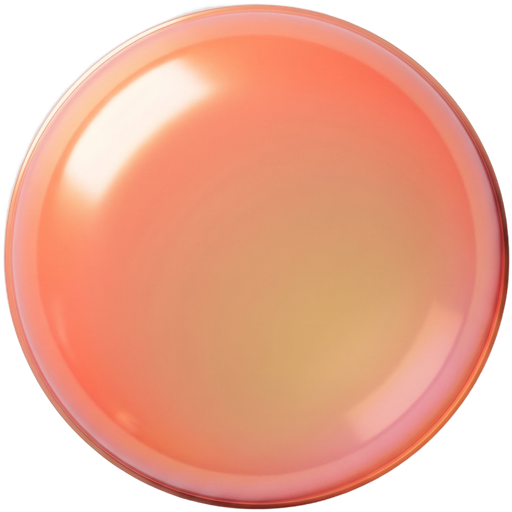
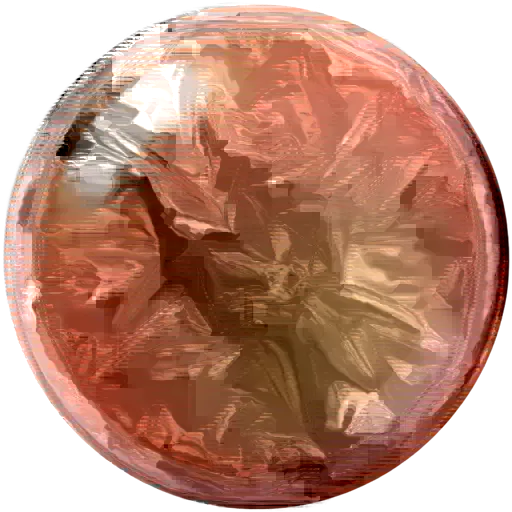
feat(pop-zen): crinkled popped skins + multi-colour Pastel
- Popped skin bubbles now look deflated/crinkled like the classic pop (the real
  popped bubble's wrinkle shading multiplied onto the solid skin colour), instead
  of just shrinking — while keeping each skin's solid colour.
- Pastel is now a MULTI-COLOUR skin: 6 pastel hues (pink, peach, yellow, mint,
  teal, blue) spread across the bubbles in a phase, matching its rainbow shop art.
  Sprite lookup now supports per-skin variant arrays, picked per-bubble by id.
Verified in-game: pastel field shows a mix of colours; born-popped bubbles read
as crinkled deflated in their colour.

diff --git a/apps/pop-zen/src/lib/skins.ts b/apps/pop-zen/src/lib/skins.ts
@@ -41,23 +41,44 @@ import nightFull from "../assets/bubbles/skins/skin-night-full.webp";
 import nightPop from "../assets/bubbles/skins/skin-night-popped.webp";
 import goldFull from "../assets/bubbles/skins/skin-gold-full.webp";
 import goldPop from "../assets/bubbles/skins/skin-gold-popped.webp";
-import zpFull from "../assets/bubbles/skins/zen-pastel-full.webp";
-import zpPop from "../assets/bubbles/skins/zen-pastel-popped.webp";
 import zmFull from "../assets/bubbles/skins/zen-mint-full.webp";
 import zmPop from "../assets/bubbles/skins/zen-mint-popped.webp";
 import zlFull from "../assets/bubbles/skins/zen-lavender-full.webp";
 import zlPop from "../assets/bubbles/skins/zen-lavender-popped.webp";
+// Pastel is a MULTI-COLOUR skin (matches its rainbow shop art): a set of pastel
+// hues, spread across the bubbles in a phase (picked per-bubble by id).
+import zp0f from "../assets/bubbles/skins/zen-pastel-0-full.webp";
+import zp0p from "../assets/bubbles/skins/zen-pastel-0-popped.webp";
+import zp1f from "../assets/bubbles/skins/zen-pastel-1-full.webp";
+import zp1p from "../assets/bubbles/skins/zen-pastel-1-popped.webp";
+import zp2f from "../assets/bubbles/skins/zen-pastel-2-full.webp";
+import zp2p from "../assets/bubbles/skins/zen-pastel-2-popped.webp";
+import zp3f from "../assets/bubbles/skins/zen-pastel-3-full.webp";
+import zp3p from "../assets/bubbles/skins/zen-pastel-3-popped.webp";
+import zp4f from "../assets/bubbles/skins/zen-pastel-4-full.webp";
+import zp4p from "../assets/bubbles/skins/zen-pastel-4-popped.webp";
+import zp5f from "../assets/bubbles/skins/zen-pastel-5-full.webp";
+import zp5p from "../assets/bubbles/skins/zen-pastel-5-popped.webp";
 
 export type BubbleSprite = { full: string; popped: string };
-const BUBBLE_SPRITES: Record<string, BubbleSprite> = {
-  "skin-neon": { full: neonFull, popped: neonPop },
-  "skin-ocean": { full: oceanFull, popped: oceanPop },
-  "skin-sunset": { full: sunsetFull, popped: sunsetPop },
-  "skin-night": { full: nightFull, popped: nightPop },
-  "skin-gold": { full: goldFull, popped: goldPop },
-  "zen-pastel": { full: zpFull, popped: zpPop },
-  "zen-mint": { full: zmFull, popped: zmPop },
-  "zen-lavender": { full: zlFull, popped: zlPop },
+// Each skin maps to one OR MORE bubble sprites. Single-sprite skins have a
+// one-element array; multi-colour skins (Pastel) list every variant.
+const BUBBLE_SPRITES: Record<string, BubbleSprite[]> = {
+  "skin-neon": [{ full: neonFull, popped: neonPop }],
+  "skin-ocean": [{ full: oceanFull, popped: oceanPop }],
+  "skin-sunset": [{ full: sunsetFull, popped: sunsetPop }],
+  "skin-night": [{ full: nightFull, popped: nightPop }],
+  "skin-gold": [{ full: goldFull, popped: goldPop }],
+  "zen-mint": [{ full: zmFull, popped: zmPop }],
+  "zen-lavender": [{ full: zlFull, popped: zlPop }],
+  "zen-pastel": [
+    { full: zp0f, popped: zp0p },
+    { full: zp1f, popped: zp1p },
+    { full: zp2f, popped: zp2p },
+    { full: zp3f, popped: zp3p },
+    { full: zp4f, popped: zp4p },
+    { full: zp5f, popped: zp5p },
+  ],
 };
 
 export type Rarity = "starter" | "common" | "uncommon" | "rare" | "premium";
@@ -238,9 +259,13 @@ export function equippedBubbleTint(): string | undefined {
 }
 
 /**
- * The equipped skin's real in-game bubble sprite pair (full + popped). Undefined
- * for Classic → the default bubble is used.
+ * The equipped skin's bubble sprite for a given bubble `seed` (its id). Single-
+ * colour skins always return their one sprite; multi-colour skins (Pastel) spread
+ * their variants across the field by seed so a phase shows a mix. Undefined for
+ * Classic → the default bubble is used.
  */
-export function equippedBubbleSprite(): BubbleSprite | undefined {
-  return BUBBLE_SPRITES[load().skins.equippedSkin];
+export function equippedBubbleSprite(seed = 0): BubbleSprite | undefined {
+  const arr = BUBBLE_SPRITES[load().skins.equippedSkin];
+  if (!arr || arr.length === 0) return undefined;
+  return arr[((seed % arr.length) + arr.length) % arr.length];
 }

diff --git a/apps/pop-zen/src/components/Bubble.tsx b/apps/pop-zen/src/components/Bubble.tsx
@@ -108,7 +108,7 @@ export const Bubble = memo(function Bubble({
 
   // Equipped skin's own bubble art (bespoke per-skin sprite). Specials keep their
   // own look, so only plain bubbles get the skin sprite; Classic → default bubble.
-  const sprite = special === "normal" ? equippedBubbleSprite() : undefined;
+  const sprite = special === "normal" ? equippedBubbleSprite(id) : undefined;
   const fullSrc = sprite ? sprite.full : bubbleFull;
   const poppedSrc = sprite ? sprite.popped : bubblePopped;
   const look = special !== "normal" ? SPECIAL_LOOK[special] : null;
